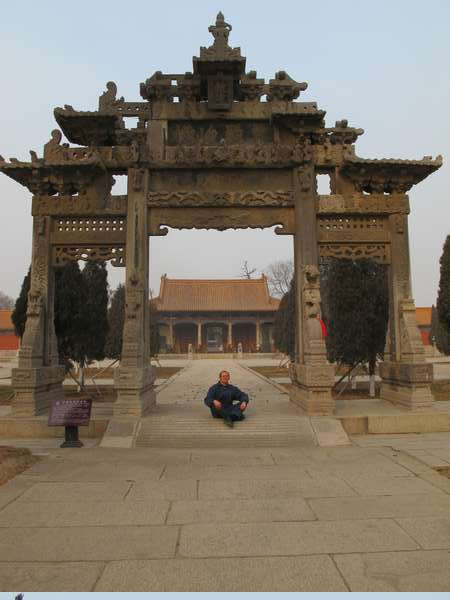
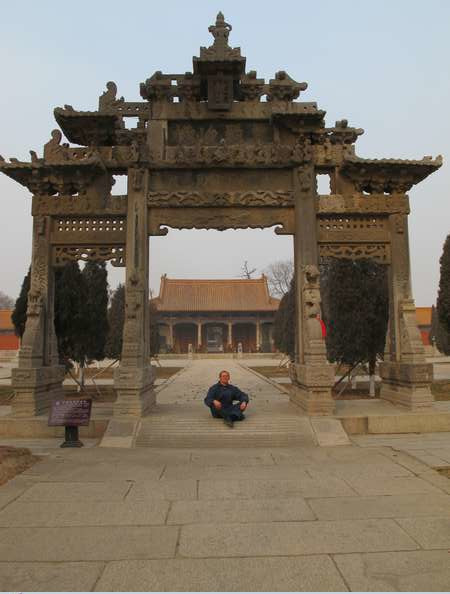
fix image

diff --git a/practice/chinese_tea_ceremony/191228/index.html b/practice/chinese_tea_ceremony/191228/index.html
@@ -28,7 +28,7 @@
   <meta property="og:title" content="Осознание жизни" />
   <meta property="og:image" content="https://kungfu.com.ua/photo/china/IMG_2456_thumb.jpg" />
   <meta property="og:image:width" content="450"/>
-  <meta property="og:image:height" content="600"/>
+  <meta property="og:image:height" content="594"/>
   <meta name="twitter:image" content="https://kungfu.com.ua/photo/china/IMG_2456_thumb.jpg">
   <meta property="vk:image" content="https://kungfu.com.ua/photo/china/IMG_2456_thumb.jpg" />
   <link rel="image_src" href="https://kungfu.com.ua/photo/china/IMG_2456_thumb.jpg" />
